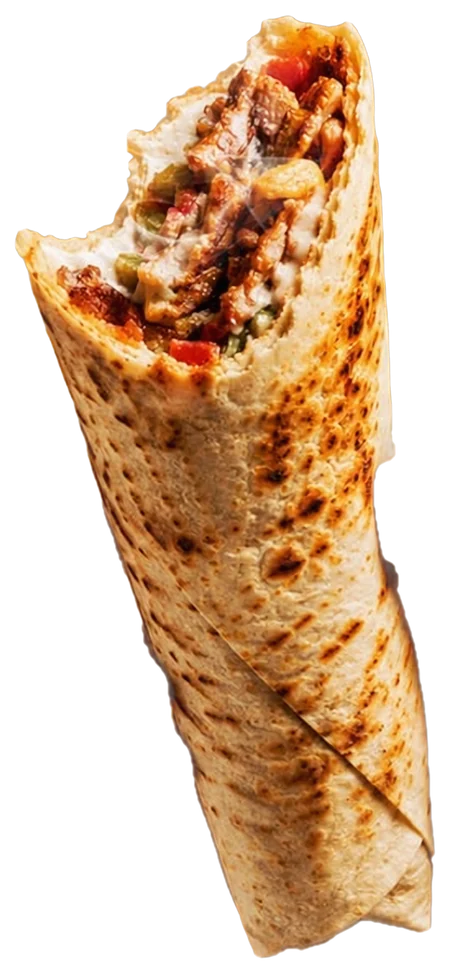
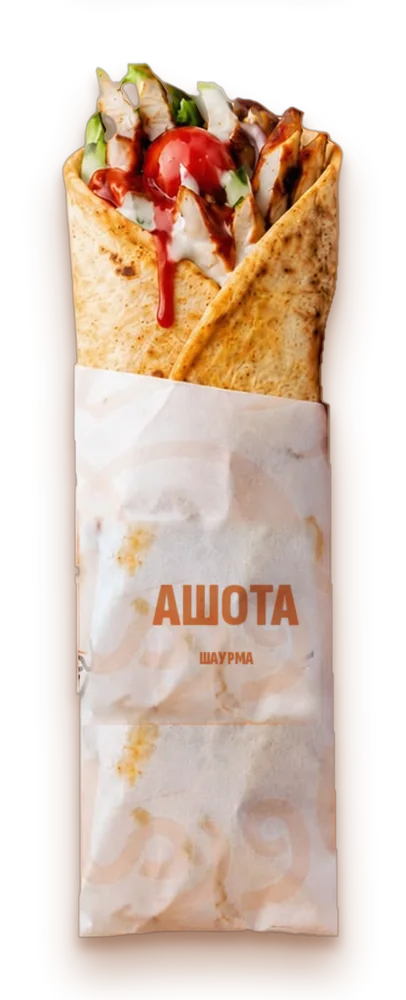
новое фото шаурмы, облегчённый режим для телефонов (без лагов), тень запечена в картинку
Claude-Session: https://claude.ai/code/session_01LKqLCBCkB6UpZuAHuehY1V

diff --git a/css/style.css b/css/style.css
@@ -113,8 +113,8 @@ button{cursor:pointer}
 .hero__title--outline{z-index:3;color:transparent;-webkit-text-stroke:max(1.5px,.011em) var(--sauce);pointer-events:none}
 .hero__title--outline .hero__word{text-shadow:none}
 
-.hero__photo{z-index:2;height:calc(var(--fs) * 1.66 * var(--sy));aspect-ratio:900/1948;--px:0px;--py:0px;--rot:-7deg;
-  transform:translate3d(var(--px),var(--py),0) rotate(var(--rot));filter:drop-shadow(0 .9vw 1.2vw rgba(90,30,0,.5)) drop-shadow(0 3vw 4vw rgba(120,44,0,.35));will-change:transform}
+.hero__photo{z-index:2;height:calc(var(--fs) * 1.95 * var(--sy));aspect-ratio:813/2000;--px:0px;--py:0px;--rot:-7deg;
+  transform:translate3d(var(--px),var(--py),0) rotate(var(--rot));will-change:transform}
 .hero__photo img{width:100%;height:100%;object-fit:contain}
 
 .sticker{z-index:4;position:absolute;grid-area:auto;background:var(--sauce);color:var(--char);font-weight:700;font-size:clamp(13px,1.25vw,18px);line-height:1.2;padding:.5em 1em;border-radius:999px;box-shadow:0 4px 0 rgba(120,44,0,.3);white-space:nowrap}
@@ -146,7 +146,7 @@ button{cursor:pointer}
 /* вертикальные экраны: буквы вытягиваем ещё выше */
 @media (max-aspect-ratio:4/5){
   .hero__stage{--fs:31.5vw;--sy:1.78}
-  .hero__photo{height:calc(var(--fs) * 1.6 * var(--sy))}
+  .hero__photo{height:calc(var(--fs) * 1.92 * var(--sy))}
   .sticker--a{right:auto;left:4vw;top:46.5%}
   .sticker--b{left:auto;right:4vw;top:24%}
   .sticker--c{left:auto;right:5vw;top:79%}
@@ -257,7 +257,7 @@ button{cursor:pointer}
 .opt input:checked + span{background:var(--lavash);border-color:var(--lavash);color:var(--char);font-weight:700}
 .opt input:focus-visible + span{outline:3px solid var(--ember);outline-offset:3px}
 .build__card{position:sticky;top:calc(var(--header-h) + 20px);background:var(--fire);color:var(--char);border-radius:28px;padding:26px 26px 24px;overflow:hidden}
-.build__img{width:150px;float:right;margin:-8px -18px 0 12px;transform:rotate(9deg);filter:drop-shadow(0 12px 14px rgba(90,30,0,.45));shape-outside:polygon(20% 0,100% 0,100% 100%,30% 100%)}
+.build__img{width:112px;float:right;margin:-8px -18px 0 12px;transform:rotate(9deg);filter:drop-shadow(0 12px 14px rgba(90,30,0,.45));shape-outside:polygon(20% 0,100% 0,100% 100%,30% 100%)}
 .build__name{font-family:var(--display);font-weight:900;text-transform:uppercase;font-size:52px;line-height:.9;max-width:4.2em}
 .build__desc{margin-top:14px;font-weight:500;line-height:1.45;min-height:7.5em}
 .build__row{clear:both;display:flex;flex-wrap:wrap;align-items:center;justify-content:space-between;gap:12px;margin-top:14px}
@@ -435,10 +435,10 @@ body:has(dialog[open]){overflow:hidden}
 
 /* глубина при прокрутке: слои уезжают с разной скоростью */
 @media (prefers-reduced-motion:no-preference){
-  .hero__title{translate:0 calc(var(--sc,0) * .26px)}
-  .hero__photo{translate:0 calc(var(--sc,0) * .08px);rotate:calc(var(--sc,0) * .018deg)}
-  .sticker{translate:0 calc(var(--sc,0) * .42px)}
-  .hero__bar{translate:0 calc(var(--sc,0) * .1px);opacity:calc(1 - var(--sc,0) / 520)}
+  html:not(.lite) .hero__title{translate:0 calc(var(--sc,0) * .26px)}
+  html:not(.lite) .hero__photo{translate:0 calc(var(--sc,0) * .08px);rotate:calc(var(--sc,0) * .018deg)}
+  html:not(.lite) .sticker{translate:0 calc(var(--sc,0) * .42px)}
+  html:not(.lite) .hero__bar{translate:0 calc(var(--sc,0) * .1px);opacity:calc(1 - var(--sc,0) / 520)}
 }
 @media (prefers-reduced-motion:reduce){
   .rv{opacity:1;transform:none;transition:none}
@@ -524,3 +524,15 @@ body:has(dialog[open]){overflow:hidden}
 .opt span,.chip,.buy,.btn{will-change:auto}
 .opt:active span{transform:scale(.96)}
 .opt span{transition:background-color .6s var(--ease),color .6s var(--ease),border-color .6s var(--ease),transform .5s var(--ease)}
+
+/* ---------- облегчённый режим для телефонов ---------- */
+.lite .hero__rays{animation:none;will-change:auto;opacity:.8}
+.lite .hero__rays--soft{opacity:.4}
+.lite .hero__glow{animation:none}
+.lite .hero__photo img{animation:none}
+.lite .build::before,.lite .contacts::before{animation:none}
+.lite .hero__photo{animation-duration:1.6s}
+.lite .hero__word--top,.lite .hero__word--bottom{animation-duration:1.3s}
+.lite .rv{transition-duration:1s,1.1s}
+.lite .hero__title{text-shadow:none}
+.lite .hero__word{text-shadow:none}

diff --git a/js/app.js b/js/app.js
@@ -18,8 +18,9 @@
 
   /* ---------- плавный скролл «как по льду» ---------- */
   const reduceMotion = matchMedia('(prefers-reduced-motion: reduce)').matches;
+  const lite = document.documentElement.classList.contains('lite'); // телефон: меньше эффектов, чтобы не тормозило
   const iceEase = t => t < .5 ? 8 * t ** 4 : 1 - (-2 * t + 2) ** 4 / 2;
-  const lenis = (!reduceMotion && window.Lenis)
+  const lenis = (!reduceMotion && !lite && window.Lenis)
     ? new Lenis({ lerp: .045, wheelMultiplier: 1, smoothWheel: true, autoRaf: true })
     : null;
   const headerOffset = () => -((parseInt(getComputedStyle(document.documentElement).getPropertyValue('--header-h')) || 64) + 12);
@@ -28,7 +29,7 @@
     const el = typeof target === 'string' ? $(target) : target;
     if (!el) return;
     if (lenis) lenis.scrollTo(el, { offset: headerOffset(), duration: 2.8, easing: iceEase, ...opts });
-    else el.scrollIntoView();
+    else el.scrollIntoView({ behavior: reduceMotion ? 'auto' : 'smooth', block: 'start' });
   }
   document.addEventListener('click', e => {
     const a = e.target.closest('a[href^="#"]');
@@ -63,7 +64,7 @@
   }
 
   // слои главного экрана едут с разной скоростью
-  {
+  if (!lite) {
     const hero = $('.hero');
     const paintHero = () => hero.style.setProperty('--sc', Math.min(scrollY, innerHeight * 1.3).toFixed(1));
     addEventListener('scroll', paintHero, { passive: true });
@@ -168,7 +169,7 @@
     grad.addColorStop(0, opt.core); grad.addColorStop(.3, opt.mid); grad.addColorStop(1, 'rgba(255,140,0,0)');
     sg.fillStyle = grad; sg.fillRect(0, 0, 64, 64);
 
-    let w = 0, h = 0, dpr = 1, list = [], visible = false, last = 0, mx = -9999, my = -9999;
+    let w = 0, h = 0, dpr = 1, list = [], visible = false, last = 0, drawn = 0, mx = -9999, my = -9999;
     const spawn = initial => ({
       x: Math.random() * w, y: initial ? Math.random() * h : h + 30 * dpr,
       r: (1.4 + Math.random() * 4.2) * dpr * opt.size,
@@ -177,10 +178,10 @@
       a: .4 + Math.random() * .6, vx: 0,
     });
     function resize() {
-      dpr = Math.min(devicePixelRatio || 1, 2);
+      dpr = lite ? 1 : Math.min(devicePixelRatio || 1, 2);
       w = canvas.width = Math.round(canvas.clientWidth * dpr);
       h = canvas.height = Math.round(canvas.clientHeight * dpr);
-      const n = Math.max(14, Math.round(opt.count * Math.min(1.3, (canvas.clientWidth * canvas.clientHeight) / (1440 * 900))));
+      const n = Math.max(lite ? 10 : 14, Math.round((lite ? opt.count * .4 : opt.count) * Math.min(1.3, (canvas.clientWidth * canvas.clientHeight) / (1440 * 900))));
       while (list.length < n) list.push(spawn(true));
       list.length = n;
     }
@@ -196,10 +197,12 @@
 
     function frame(t) {
       if (!visible || document.hidden) { last = 0; if (visible) requestAnimationFrame(frame); return; }
+      if (lite && t - drawn < 32) { requestAnimationFrame(frame); return; }
+      drawn = t;
       const dt = last ? Math.min(50, t - last) / 16.67 : 1;
       last = t;
       ctx.clearRect(0, 0, w, h);
-      ctx.globalCompositeOperation = 'lighter';
+      ctx.globalCompositeOperation = lite ? 'source-over' : 'lighter';
       for (let i = 0; i < list.length; i++) {
         const p = list[i];
         p.y -= p.vy * dt;

diff --git a/index.html b/index.html
@@ -3,7 +3,7 @@
 <head>
 <meta charset="utf-8">
 <meta name="viewport" content="width=device-width, initial-scale=1, viewport-fit=cover">
-<script>document.documentElement.classList.add('js')</script>
+<script>document.documentElement.classList.add('js');if(matchMedia('(pointer:coarse)').matches||innerWidth<760)document.documentElement.classList.add('lite')</script>
 <title>Шаурма Ашота — горячая шаурма с доставкой по Астане</title>
 <meta name="description" content="Шаурма Ашота в Астане: мясо с вертела, лаваш с гриля, соусы собственного приготовления. Доставка за 30–50 минут и самовывоз каждый день до 02:00.">
 <meta name="theme-color" content="#f26a00">
@@ -17,7 +17,7 @@
 <link rel="icon" href="assets/img/favicon.svg" type="image/svg+xml">
 <link rel="manifest" href="manifest.webmanifest">
 <link rel="preload" href="assets/fonts/sofia-sans-extra-condensed-cyrillic-900-normal.woff2" as="font" type="font/woff2" crossorigin>
-<link rel="preload" href="assets/img/shawarma.webp" as="image" imagesrcset="assets/img/shawarma-450.webp 450w, assets/img/shawarma.webp 900w" imagesizes="(max-width: 700px) 60vw, 420px">
+<link rel="preload" href="assets/img/shawarma.webp" as="image" imagesrcset="assets/img/shawarma-450.webp 406w, assets/img/shawarma.webp 813w" imagesizes="(max-width: 700px) 60vw, 420px">
 <link rel="stylesheet" href="css/style.css">
 </head>
 <body>
@@ -58,9 +58,9 @@
 
     <picture class="hero__photo" id="heroPhoto">
       <img src="assets/img/shawarma.webp"
-           srcset="assets/img/shawarma-450.webp 450w, assets/img/shawarma.webp 900w"
+           srcset="assets/img/shawarma-450.webp 406w, assets/img/shawarma.webp 813w"
            sizes="(max-width: 700px) 60vw, 420px"
-           width="900" height="1948" alt="Горячая шаурма с курицей, овощами и чесночным соусом" fetchpriority="high">
+           width="813" height="2000" alt="Шаурма с курицей, овощами и соусом в фирменной бумаге" fetchpriority="high">
     </picture>
 
     <!-- контур букв поверх фото -->
@@ -137,7 +137,7 @@
   <div class="build__grid">
     <form class="build__form" id="builder" novalidate></form>
     <aside class="build__card" aria-live="polite">
-      <img class="build__img" src="assets/img/shawarma-450.webp" width="450" height="974" alt="" loading="lazy">
+      <img class="build__img" src="assets/img/shawarma-450.webp" width="406" height="1000" alt="" loading="lazy">
       <h3 class="build__name">Ваша шаурма</h3>
       <p class="build__desc" id="buildDesc"></p>
       <div class="build__row">
